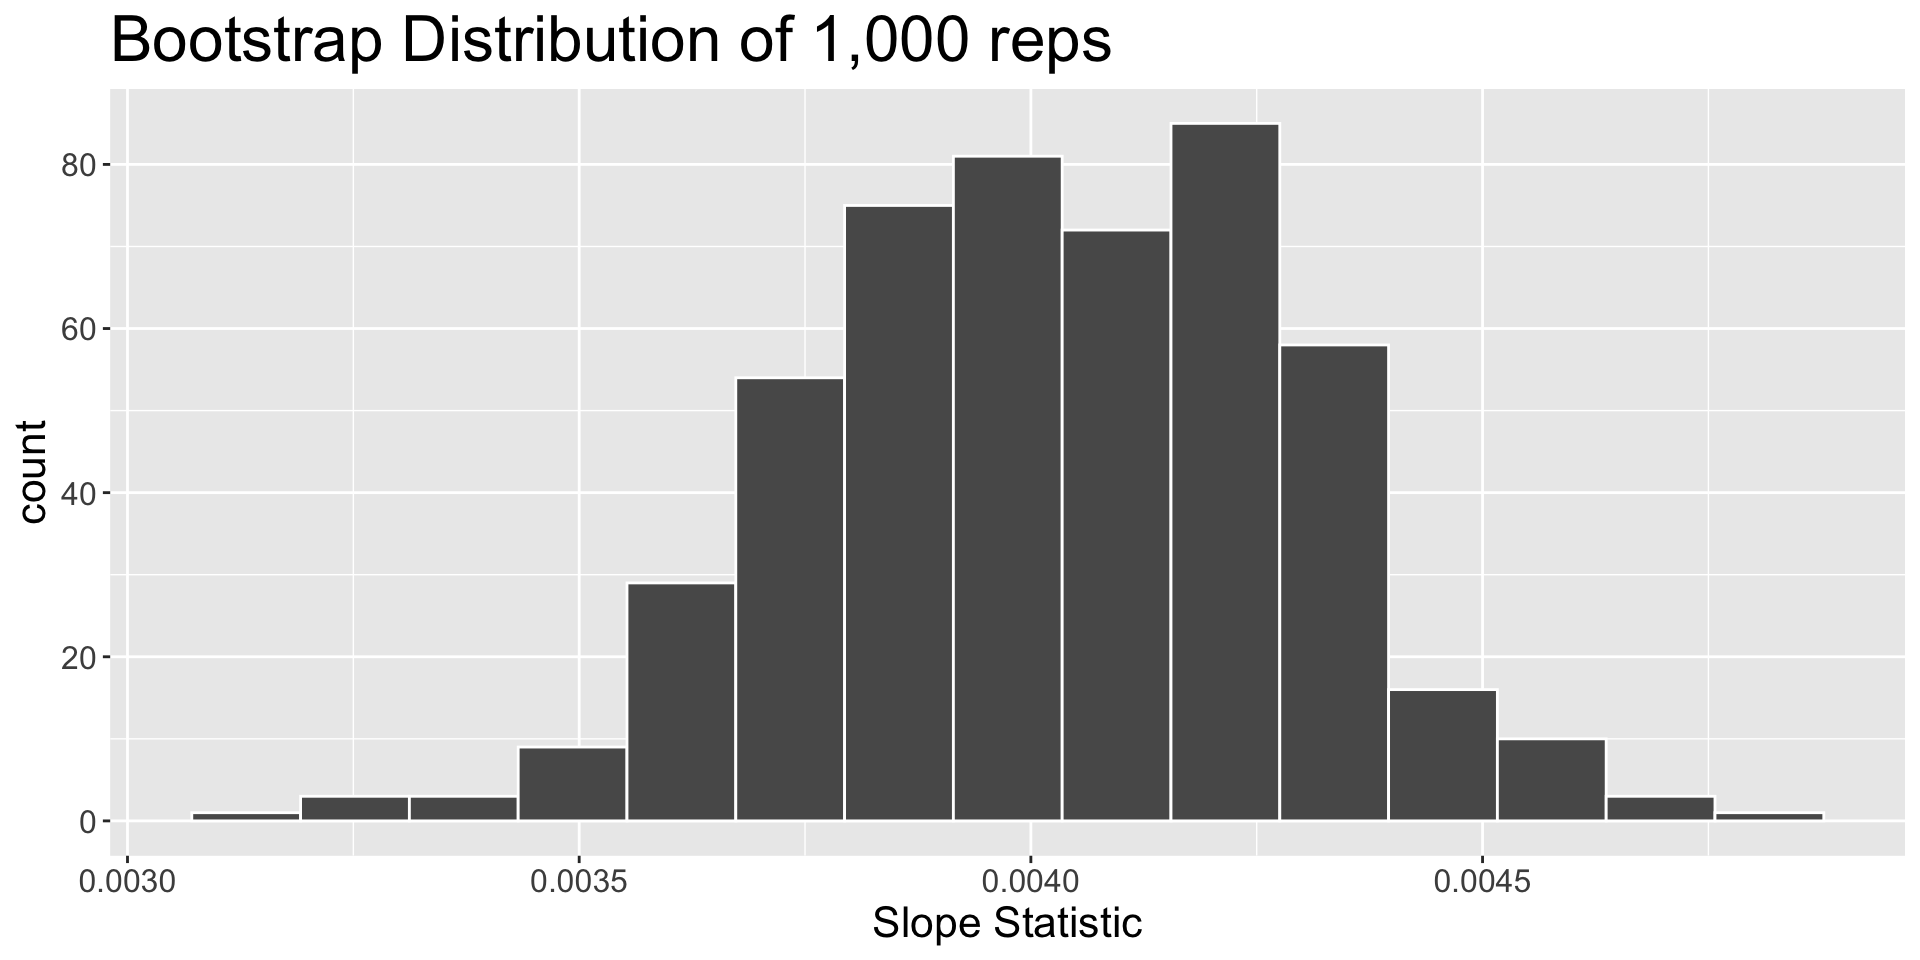
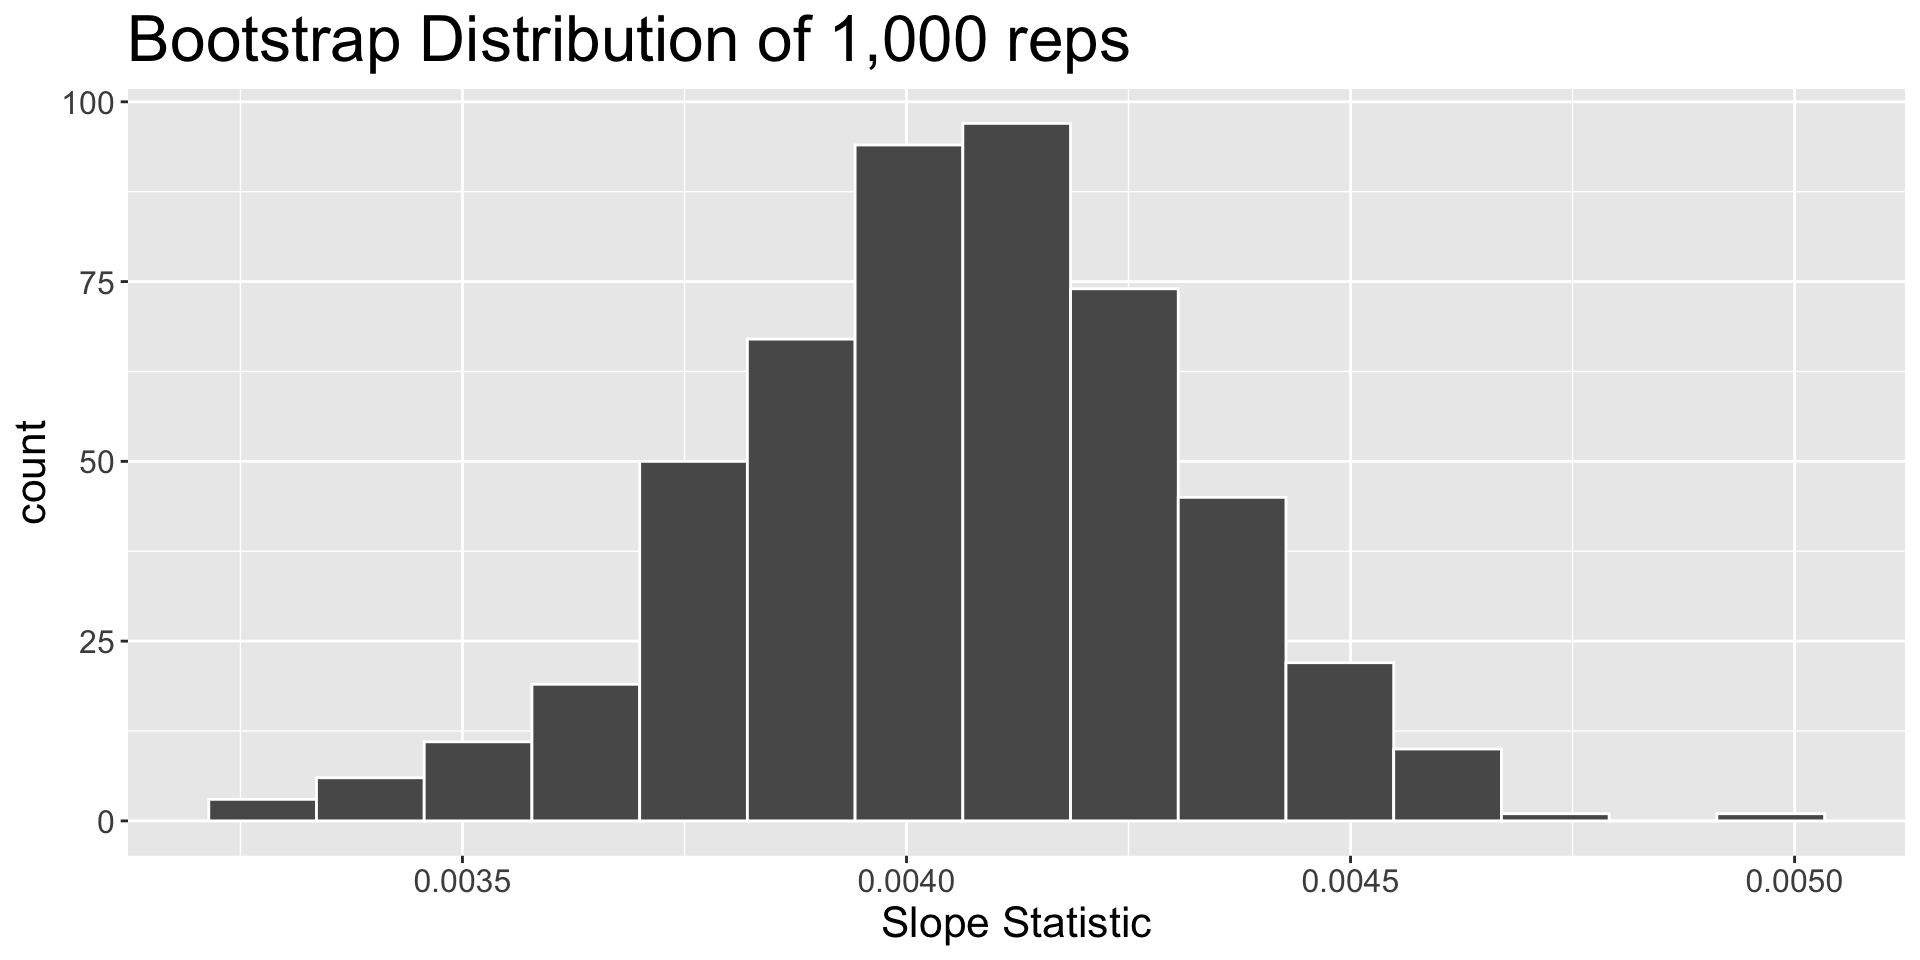
add lab 3 revision reminder

diff --git a/docs/slides/week7-day1.html b/docs/slides/week7-day1.html
@@ -7,9 +7,8 @@
 <script src="../site_libs/quarto-html/tippy.umd.min.js"></script>
 <link href="../site_libs/quarto-html/tippy.css" rel="stylesheet">
 <link href="../site_libs/quarto-html/light-border.css" rel="stylesheet">
-<link href="../site_libs/quarto-html/quarto-html.min.css" rel="stylesheet" data-mode="light">
-<link href="../site_libs/quarto-html/quarto-syntax-highlighting.css" rel="stylesheet" id="quarto-text-highlighting-styles"><meta charset="utf-8">
-  <meta name="generator" content="quarto-1.5.57">
+<link href="../site_libs/quarto-html/quarto-syntax-highlighting-2f5df379a58b258e96c21c0638c20c03.css" rel="stylesheet" id="quarto-text-highlighting-styles"><meta charset="utf-8">
+  <meta name="generator" content="quarto-1.6.42">
 
   <title>STAT 313 / 513 – Confidence Intervals – Real Life Sampling Distributions</title>
   <meta name="apple-mobile-web-app-capable" content="yes">
@@ -95,209 +94,11 @@
     code span.vs { color: #20794d; } /* VerbatimString */
     code span.wa { color: #5e5e5e; font-style: italic; } /* Warning */
   </style>
-  <link rel="stylesheet" href="../site_libs/revealjs/dist/theme/quarto.css">
+  <link rel="stylesheet" href="../site_libs/revealjs/dist/theme/quarto-69e77072cdc3ddff2609503aa4bba997.css">
   <link href="../site_libs/revealjs/plugin/quarto-line-highlight/line-highlight.css" rel="stylesheet">
   <link href="../site_libs/revealjs/plugin/reveal-menu/menu.css" rel="stylesheet">
   <link href="../site_libs/revealjs/plugin/reveal-menu/quarto-menu.css" rel="stylesheet">
   <link href="../site_libs/revealjs/plugin/quarto-support/footer.css" rel="stylesheet">
-  <style type="text/css">
-
-  .callout {
-    margin-top: 1em;
-    margin-bottom: 1em;  
-    border-radius: .25rem;
-  }
-
-  .callout.callout-style-simple { 
-    padding: 0em 0.5em;
-    border-left: solid #acacac .3rem;
-    border-right: solid 1px silver;
-    border-top: solid 1px silver;
-    border-bottom: solid 1px silver;
-    display: flex;
-  }
-
-  .callout.callout-style-default {
-    border-left: solid #acacac .3rem;
-    border-right: solid 1px silver;
-    border-top: solid 1px silver;
-    border-bottom: solid 1px silver;
-  }
-
-  .callout .callout-body-container {
-    flex-grow: 1;
-  }
-
-  .callout.callout-style-simple .callout-body {
-    font-size: 1rem;
-    font-weight: 400;
-  }
-
-  .callout.callout-style-default .callout-body {
-    font-size: 0.9rem;
-    font-weight: 400;
-  }
-
-  .callout.callout-titled.callout-style-simple .callout-body {
-    margin-top: 0.2em;
-  }
-
-  .callout:not(.callout-titled) .callout-body {
-      display: flex;
-  }
-
-  .callout:not(.no-icon).callout-titled.callout-style-simple .callout-content {
-    padding-left: 1.6em;
-  }
-
-  .callout.callout-titled .callout-header {
-    padding-top: 0.2em;
-    margin-bottom: -0.2em;
-  }
-
-  .callout.callout-titled .callout-title  p {
-    margin-top: 0.5em;
-    margin-bottom: 0.5em;
-  }
-    
-  .callout.callout-titled.callout-style-simple .callout-content  p {
-    margin-top: 0;
-  }
-
-  .callout.callout-titled.callout-style-default .callout-content  p {
-    margin-top: 0.7em;
-  }
-
-  .callout.callout-style-simple div.callout-title {
-    border-bottom: none;
-    font-size: .9rem;
-    font-weight: 600;
-    opacity: 75%;
-  }
-
-  .callout.callout-style-default  div.callout-title {
-    border-bottom: none;
-    font-weight: 600;
-    opacity: 85%;
-    font-size: 0.9rem;
-    padding-left: 0.5em;
-    padding-right: 0.5em;
-  }
-
-  .callout.callout-style-default div.callout-content {
-    padding-left: 0.5em;
-    padding-right: 0.5em;
-  }
-
-  .callout.callout-style-simple .callout-icon::before {
-    height: 1rem;
-    width: 1rem;
-    display: inline-block;
-    content: "";
-    background-repeat: no-repeat;
-    background-size: 1rem 1rem;
-  }
-
-  .callout.callout-style-default .callout-icon::before {
-    height: 0.9rem;
-    width: 0.9rem;
-    display: inline-block;
-    content: "";
-    background-repeat: no-repeat;
-    background-size: 0.9rem 0.9rem;
-  }
-
-  .callout-title {
-    display: flex
-  }
-    
-  .callout-icon::before {
-    margin-top: 1rem;
-    padding-right: .5rem;
-  }
-
-  .callout.no-icon::before {
-    display: none !important;
-  }
-
-  .callout.callout-titled .callout-body > .callout-content > :last-child {
-    padding-bottom: 0.5rem;
-    margin-bottom: 0;
-  }
-
-  .callout.callout-titled .callout-icon::before {
-    margin-top: .5rem;
-    padding-right: .5rem;
-  }
-
-  .callout:not(.callout-titled) .callout-icon::before {
-    margin-top: 1rem;
-    padding-right: .5rem;
-  }
-
-  /* Callout Types */
-
-  div.callout-note {
-    border-left-color: #4582ec !important;
-  }
-
-  div.callout-note .callout-icon::before {
[1 lines of base64/hex data omitted]
-  }
-
-  div.callout-note.callout-style-default .callout-title {
-    background-color: #dae6fb
-  }
-
-  div.callout-important {
-    border-left-color: #d9534f !important;
-  }
-
-  div.callout-important .callout-icon::before {
[1 lines of base64/hex data omitted]
-  }
-
-  div.callout-important.callout-style-default .callout-title {
-    background-color: #f7dddc
-  }
-
-  div.callout-warning {
-    border-left-color: #f0ad4e !important;
-  }
-
-  div.callout-warning .callout-icon::before {
[1 lines of base64/hex data omitted]
-  }
-
-  div.callout-warning.callout-style-default .callout-title {
-    background-color: #fcefdc
-  }
-
-  div.callout-tip {
-    border-left-color: #02b875 !important;
-  }
-
-  div.callout-tip .callout-icon::before {
[1 lines of base64/hex data omitted]
-  }
-
-  div.callout-tip.callout-style-default .callout-title {
-    background-color: #ccf1e3
-  }
-
-  div.callout-caution {
-    border-left-color: #fd7e14 !important;
-  }
-
-  div.callout-caution .callout-icon::before {
[1 lines of base64/hex data omitted]
-  }
-
-  div.callout-caution.callout-style-default .callout-title {
-    background-color: #ffe5d0
-  }
-
-  </style>
   <style type="text/css">
     .reveal div.sourceCode {
       margin: 0;
@@ -403,6 +204,7 @@
 <h2>Course Updates</h2>
 <ul>
 <li>Lab 4 revisions are due on Friday (May 16)</li>
+<li>Lab 3 second revisions are due on Friday (May 16)</li>
 <li>Midterm Projects will be graded by Sunday (May 18)</li>
 </ul>
 <div class="callout callout-caution callout-titled callout-style-default">
@@ -746,8 +548,8 @@
 </thead>
 <tbody>
 <tr class="odd">
-<td style="text-align: right;">0.00354</td>
-<td style="text-align: right;">0.00454</td>
+<td style="text-align: right;">0.0035</td>
+<td style="text-align: right;">0.00453</td>
 </tr>
 </tbody>
 </table>
@@ -806,7 +608,7 @@
 <section id="how-does-the-relationship-between-bill-length-and-body-mass-change-based-on-a-penguins-sex" class="slide level2">
 <h2>How does the relationship between bill length and body mass change based on a penguin’s sex?</h2>
 
-<img data-src="week7-day1_files/figure-revealjs/unnamed-chunk-4-1.png" width="960" class="r-stretch"></section>
+<img data-src="week7-day1_files/figure-revealjs/unnamed-chunk-2-1.png" width="960" class="r-stretch"></section>
 <section id="what-changes" class="slide level2">
 <h2>What changes?</h2>
 <p>The original sample of 344 penguins were broken down into the following groups (plus 11 <code>NA</code> values):</p>
@@ -929,10 +731,10 @@
 <pre><code># A tibble: 4 × 3
   term                lower_ci  upper_ci
   &lt;chr&gt;                  &lt;dbl&gt;     &lt;dbl&gt;
-1 body_mass_g          0.00373  0.00484 
-2 body_mass_g:sexmale -0.00185 -0.000115
-3 intercept           23.2     28.0     
-4 sexmale              1.01     9.56    </code></pre>
+1 body_mass_g          0.00365  0.00489 
+2 body_mass_g:sexmale -0.00198 -0.000118
+3 intercept           23.0     28.4     
+4 sexmale              1.23     9.88    </code></pre>
 </div>
 </div>
 </div>
@@ -950,8 +752,8 @@
 </thead>
 <tbody>
 <tr class="odd">
-<td style="text-align: right;">-0.0018457</td>
-<td style="text-align: right;">-0.0001145</td>
+<td style="text-align: right;">-0.0019812</td>
+<td style="text-align: right;">-0.0001181</td>
 </tr>
 </tbody>
 </table>
@@ -1001,15 +803,15 @@
 <!-- . . . -->
 <!-- > Holding flipper length constant, we are 95% confident that a 100 gram increase in body mass is associated with between a 0.203mm decrease and a 0.157mm increase in a penguin's bill length. -->
 
-<div class="quarto-auto-generated-content">
-<div class="footer footer-default">
 
-</div>
-</div>
 </div>
 </section></section>
     </div>
-  </div>
+  <div class="quarto-auto-generated-content" style="display: none;">
+<div class="footer footer-default">
+
+</div>
+</div></div>
 
   <script>window.backupDefine = window.define; window.define = undefined;</script>
   <script src="../site_libs/revealjs/dist/reveal.js"></script>
@@ -1038,7 +840,8 @@
 'autoAnimateEasing': "ease",
 'autoAnimateDuration': 1,
 'autoAnimateUnmatched': true,
-'menu': {"side":"left","useTextContentForMissingTitles":true,"markers":false,"loadIcons":false,"custom":[{"title":"Tools","icon":"<i class=\"fas fa-gear\"></i>","content":"<ul class=\"slide-menu-items\">\n<li class=\"slide-tool-item active\" data-item=\"0\"><a href=\"#\" onclick=\"RevealMenuToolHandlers.fullscreen(event)\"><kbd>f</kbd> Fullscreen</a></li>\n<li class=\"slide-tool-item\" data-item=\"1\"><a href=\"#\" onclick=\"RevealMenuToolHandlers.speakerMode(event)\"><kbd>s</kbd> Speaker View</a></li>\n<li class=\"slide-tool-item\" data-item=\"2\"><a href=\"#\" onclick=\"RevealMenuToolHandlers.overview(event)\"><kbd>o</kbd> Slide Overview</a></li>\n<li class=\"slide-tool-item\" data-item=\"3\"><a href=\"#\" onclick=\"RevealMenuToolHandlers.togglePdfExport(event)\"><kbd>e</kbd> PDF Export Mode</a></li>\n<li class=\"slide-tool-item\" data-item=\"4\"><a href=\"#\" onclick=\"RevealMenuToolHandlers.keyboardHelp(event)\"><kbd>?</kbd> Keyboard Help</a></li>\n</ul>"}],"openButton":true},
+'jumpToSlide': true,
+'menu': {"side":"left","useTextContentForMissingTitles":true,"markers":false,"loadIcons":false,"custom":[{"title":"Tools","icon":"<i class=\"fas fa-gear\"></i>","content":"<ul class=\"slide-menu-items\">\n<li class=\"slide-tool-item active\" data-item=\"0\"><a href=\"#\" onclick=\"RevealMenuToolHandlers.fullscreen(event)\"><kbd>f</kbd> Fullscreen</a></li>\n<li class=\"slide-tool-item\" data-item=\"1\"><a href=\"#\" onclick=\"RevealMenuToolHandlers.speakerMode(event)\"><kbd>s</kbd> Speaker View</a></li>\n<li class=\"slide-tool-item\" data-item=\"2\"><a href=\"#\" onclick=\"RevealMenuToolHandlers.overview(event)\"><kbd>o</kbd> Slide Overview</a></li>\n<li class=\"slide-tool-item\" data-item=\"3\"><a href=\"#\" onclick=\"RevealMenuToolHandlers.togglePdfExport(event)\"><kbd>e</kbd> PDF Export Mode</a></li>\n<li class=\"slide-tool-item\" data-item=\"4\"><a href=\"#\" onclick=\"RevealMenuToolHandlers.toggleScrollView(event)\"><kbd>r</kbd> Scroll View Mode</a></li>\n<li class=\"slide-tool-item\" data-item=\"5\"><a href=\"#\" onclick=\"RevealMenuToolHandlers.keyboardHelp(event)\"><kbd>?</kbd> Keyboard Help</a></li>\n</ul>"}],"openButton":true},
 'smaller': false,
  
         // Display controls in the bottom right corner
@@ -1192,7 +995,7 @@
         margin: 0.1,
 
         math: {
-          mathjax: 'https://cdnjs.cloudflare.com/ajax/libs/mathjax/2.7.0/MathJax.js',
+          mathjax: 'https://cdnjs.cloudflare.com/ajax/libs/mathjax/2.7.9/MathJax.js',
           config: 'TeX-AMS_HTML-full',
           tex2jax: {
             inlineMath: [['\\(','\\)']],
@@ -1335,8 +1138,6 @@
       });
       clipboard.on('success', onCopySuccess);
       if (window.document.getElementById('quarto-embedded-source-code-modal')) {
-        // For code content inside modals, clipBoardJS needs to be initialized with a container option
-        // TODO: Check when it could be a function (https://github.com/zenorocha/clipboard.js/issues/860)
         const clipboardModal = new window.ClipboardJS('.code-copy-button[data-in-quarto-modal]', {
           text: getTextToCopy,
           container: window.document.getElementById('quarto-embedded-source-code-modal')
